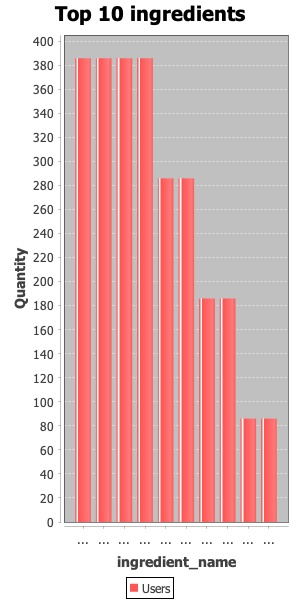
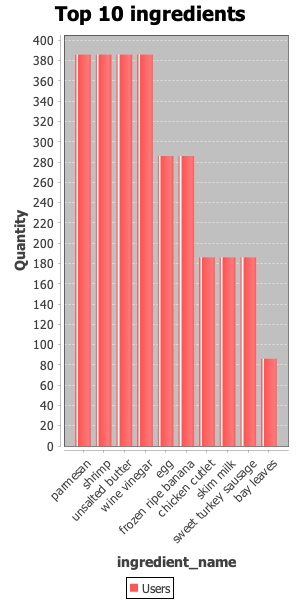
Fix chart domain label positions to be slanted, increasing readability

diff --git a/src/Chart.java b/src/Chart.java
@@ -1,7 +1,14 @@
 import org.jfree.chart.ChartFactory;
 import org.jfree.chart.ChartUtilities;
 import org.jfree.chart.JFreeChart;
+import org.jfree.chart.axis.CategoryAxis;
+import org.jfree.chart.axis.CategoryLabelPositions;
+import org.jfree.chart.axis.NumberAxis;
+import org.jfree.chart.axis.ValueAxis;
+import org.jfree.chart.plot.CategoryPlot;
 import org.jfree.chart.plot.PlotOrientation;
+
+import org.jfree.chart.plot.XYPlot;
 import org.jfree.data.category.DefaultCategoryDataset;
 
 import java.io.File;
@@ -151,6 +158,10 @@ public class Chart {
                 chart_dataset, PlotOrientation.VERTICAL,
                 true,true,false);
 
+        CategoryPlot plot = (CategoryPlot) lineChartObject.getPlot();
+        CategoryAxis domainAxis = plot.getDomainAxis();
+        domainAxis.setCategoryLabelPositions(CategoryLabelPositions.UP_45);
+
         // Width proportional to number of plot points
         jpegWidth = 30 * count;
         jpegHeight = 600;
@@ -293,6 +304,10 @@ public class Chart {
                 "Quantity",
                 chart_dataset, PlotOrientation.VERTICAL,
                 true,true,false);
+
+        CategoryPlot plot = (CategoryPlot) lineChartObject.getPlot();
+        CategoryAxis domainAxis = plot.getDomainAxis();
+        domainAxis.setCategoryLabelPositions(CategoryLabelPositions.UP_45);
 
         // Width proportional to number of plot points
         jpegWidth = 30 * count;
